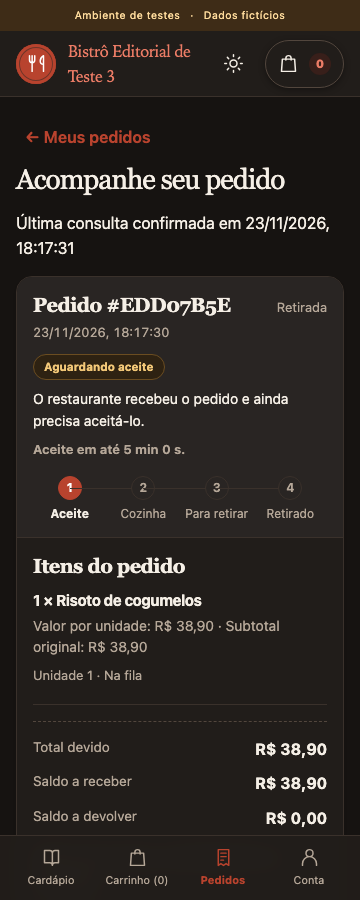
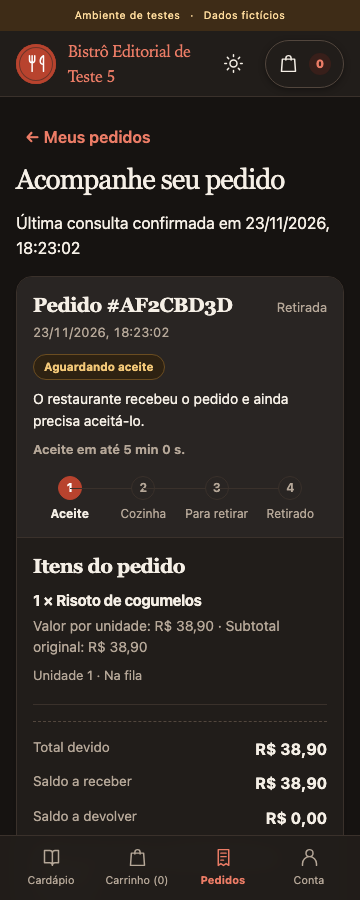
Registra contraste e versão final na demo

diff --git a/docs/evidencias/editorial-bistro-2026-11-23.md b/docs/evidencias/editorial-bistro-2026-11-23.md
@@ -138,3 +138,19 @@ SHA-256 do candidato ensaiado e a PWA respondeu com `33e79deac9c3ce612224`.
 O Chromium confirmou Minha conta, Unidades e horários, Cozinha, Pedidos, Mesas,
 Expedição, Vendas, Pendências, Catálogo e Acessos na demo. A release `da80d27`
 segue disponível para retorno com o mesmo banco local.
+
+### Contraste no tema escuro
+
+A inspeção das capturas identificou links com pouco contraste no acesso e no
+acompanhamento do pedido. O commit `4725422` aplica a cor de texto do tema
+aos links, navegação ativa, indicadores e controles afetados. Foram verificados
+quatro pares de cores por tema, todos acima de 4,5:1, e a cor renderizada
+do link de retorno e da navegação móvel no acompanhamento. As quatro etapas
+da jornada de compra foram reexecutadas em 24 combinações. As verificações
+de offline e atualização da PWA passaram novamente.
+
+O ajuste foi confirmado na demo às 18h25. A release `4725422` serve a PWA
+`f59f127e311dfea694fc` e o JAR
[1 lines of base64/hex data omitted]
+O pacote publicado coincide com o ensaiado. A versão `d7df6d9` permanece
+disponível para retorno local.

diff --git a/docs/25_EXECUTION_STATUS.md b/docs/25_EXECUTION_STATUS.md
@@ -4,10 +4,10 @@
 
 A [PR #23](https://github.com/victormontibeller/restaurant-manager/pull/23)
 integra o visual da PR #22 ao projeto e está aberta para revisão. O commit
-`d7df6d9` foi confirmado na [demo local](https://demo.localhost:8095/cardapio)
-às 18h16, com PWA `33e79deac9c3ce612224`. O JAR servido coincide com o
+`4725422` foi confirmado na [demo local](https://demo.localhost:8095/cardapio)
+às 18h25, com PWA `f59f127e311dfea694fc`. O JAR servido coincide com o
 candidato testado e traz 375 classes Java e 37 migrações SQL idênticas às
-da release anterior. A versão `da80d27` segue disponível para retorno.
+da release anterior. A versão `d7df6d9` segue disponível para retorno.
 
 A revisão cobriu 34 telas e estados de Cliente, Gestão, Cozinha e Plataforma
 em 612 combinações de largura, tema e navegador. Capturas com dados e testes
